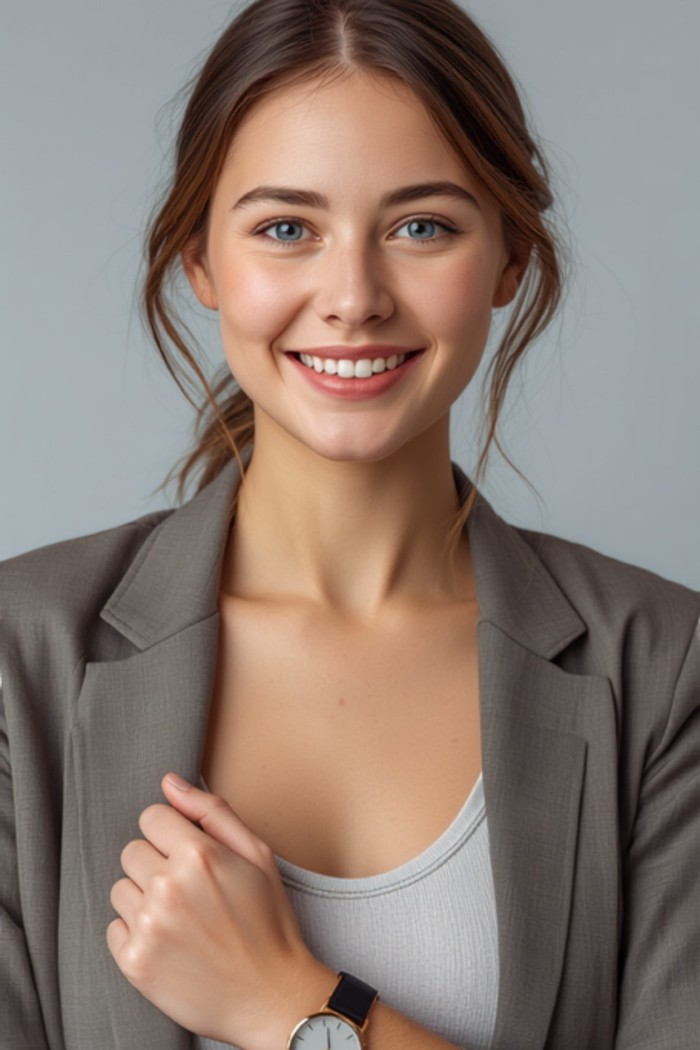
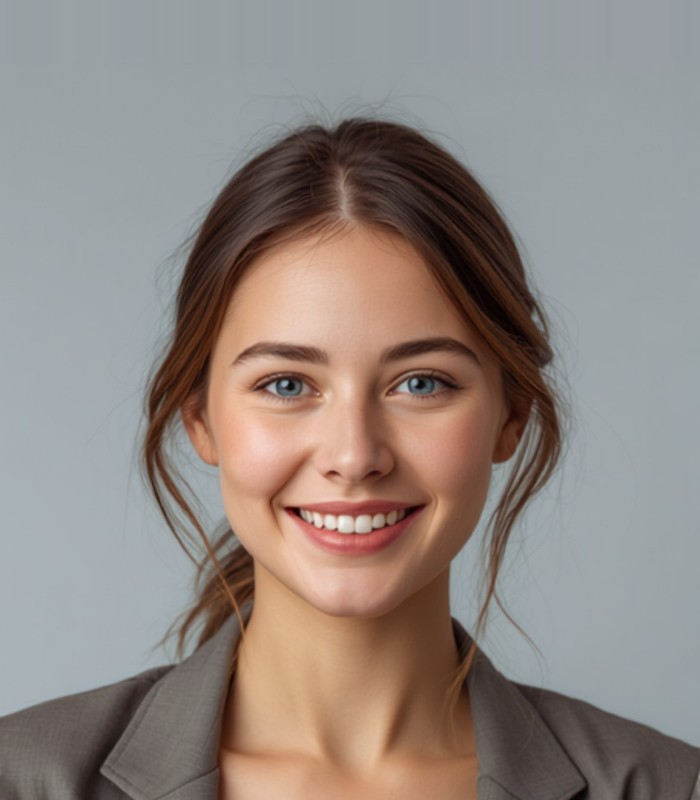
Fix cropped heads on team photos
The stored team-1/2/3.jpg were 2:3, narrower than the .team-photo
container's actual 3.5:4 aspect ratio, so object-fit:cover's default
center-crop was shaving off the top of each head. Re-crop all three
directly to 3.5:4 with headroom added above the hair (seamlessly, by
stretching the top edge row rather than a flat fill) so the container
no longer needs to crop them further. Also add object-position: center
top on .team-photo img as a safety net for future images. Bump CSS
cache-busting param to v=16.

diff --git a/css/style.css b/css/style.css
@@ -1440,6 +1440,10 @@ section { position: relative; }
 }
 .team-photo img {
   width: 100%; height: 100%; object-fit: cover;
+  /* Portraits have almost no headroom above the hair, so cover's default
+     center-crop shaves off the top of the head — anchor to the top edge
+     instead so all the cropping comes off the bottom. */
+  object-position: center top;
   transition: transform 0.5s var(--ease);
 }
 .team-card:hover .team-photo img { transform: scale(1.06); }

diff --git a/index.html b/index.html
@@ -9,7 +9,7 @@
 <link rel="preconnect" href="https://fonts.googleapis.com">
 <link rel="preconnect" href="https://fonts.gstatic.com" crossorigin>
 <link href="https://fonts.googleapis.com/css2?family=Inter:wght@400;500;600;700&family=Space+Grotesk:wght@500;600;700&display=swap" rel="stylesheet">
-<link rel="stylesheet" href="css/style.css?v=15">
+<link rel="stylesheet" href="css/style.css?v=16">
 </head>
 <body>
 
